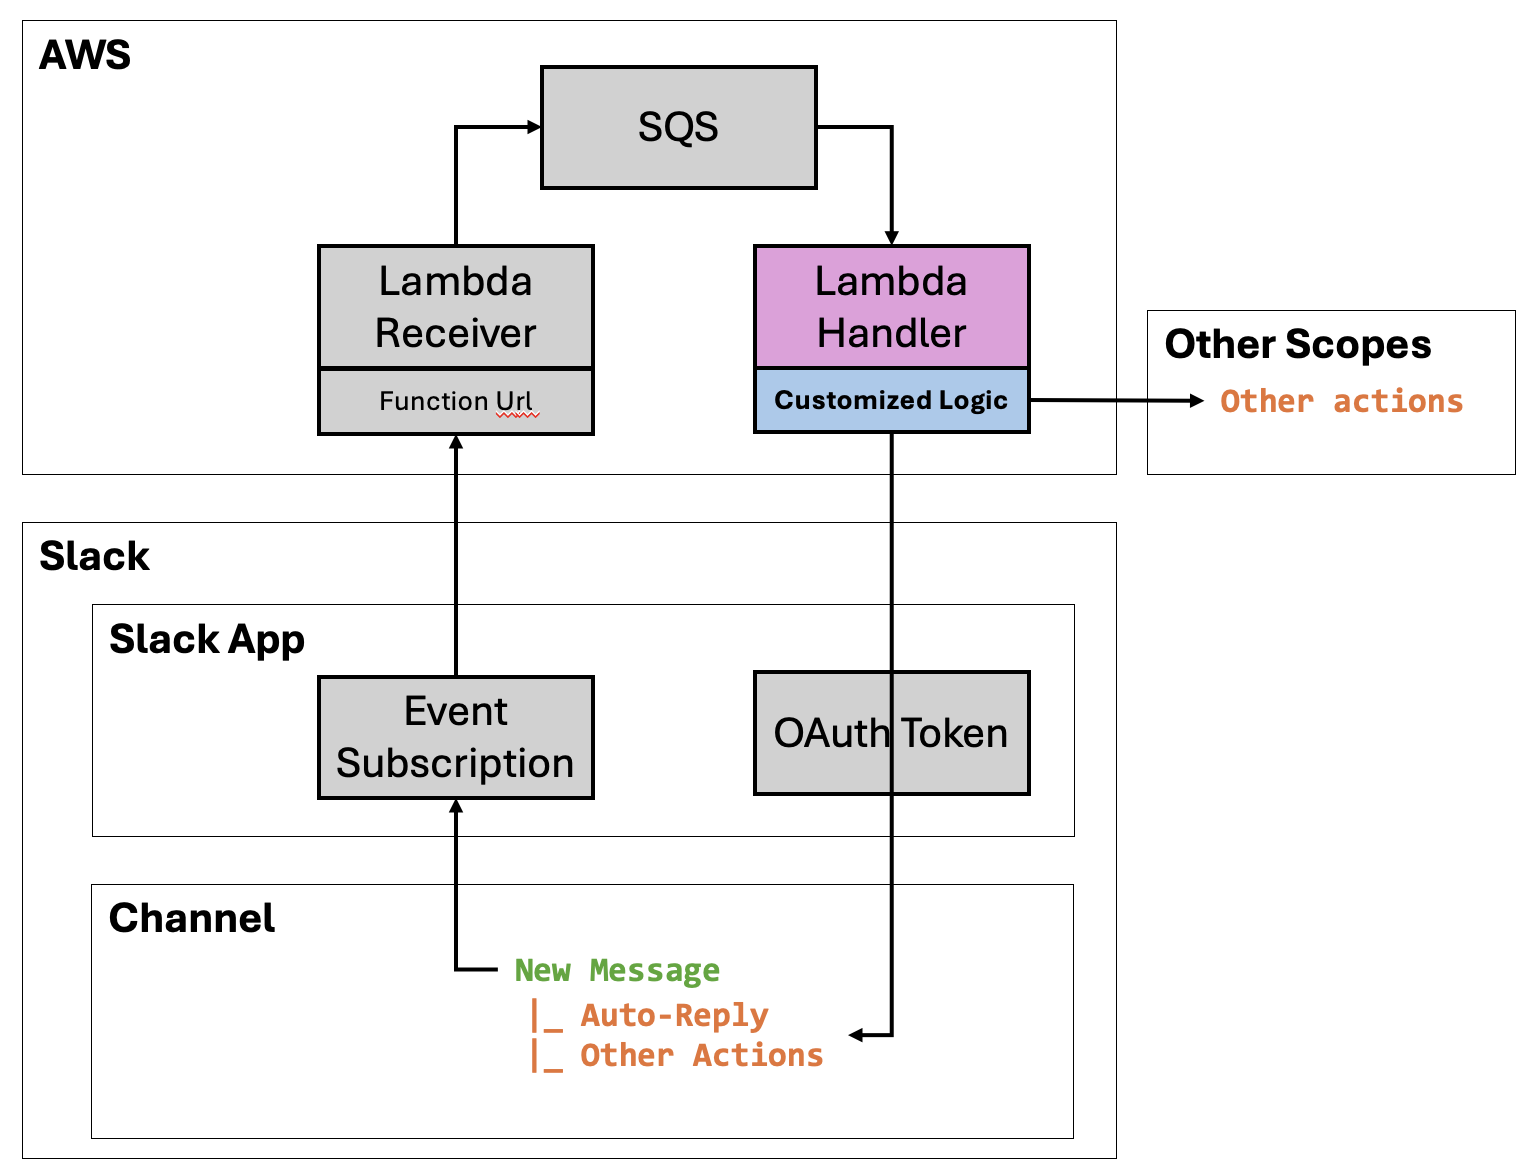
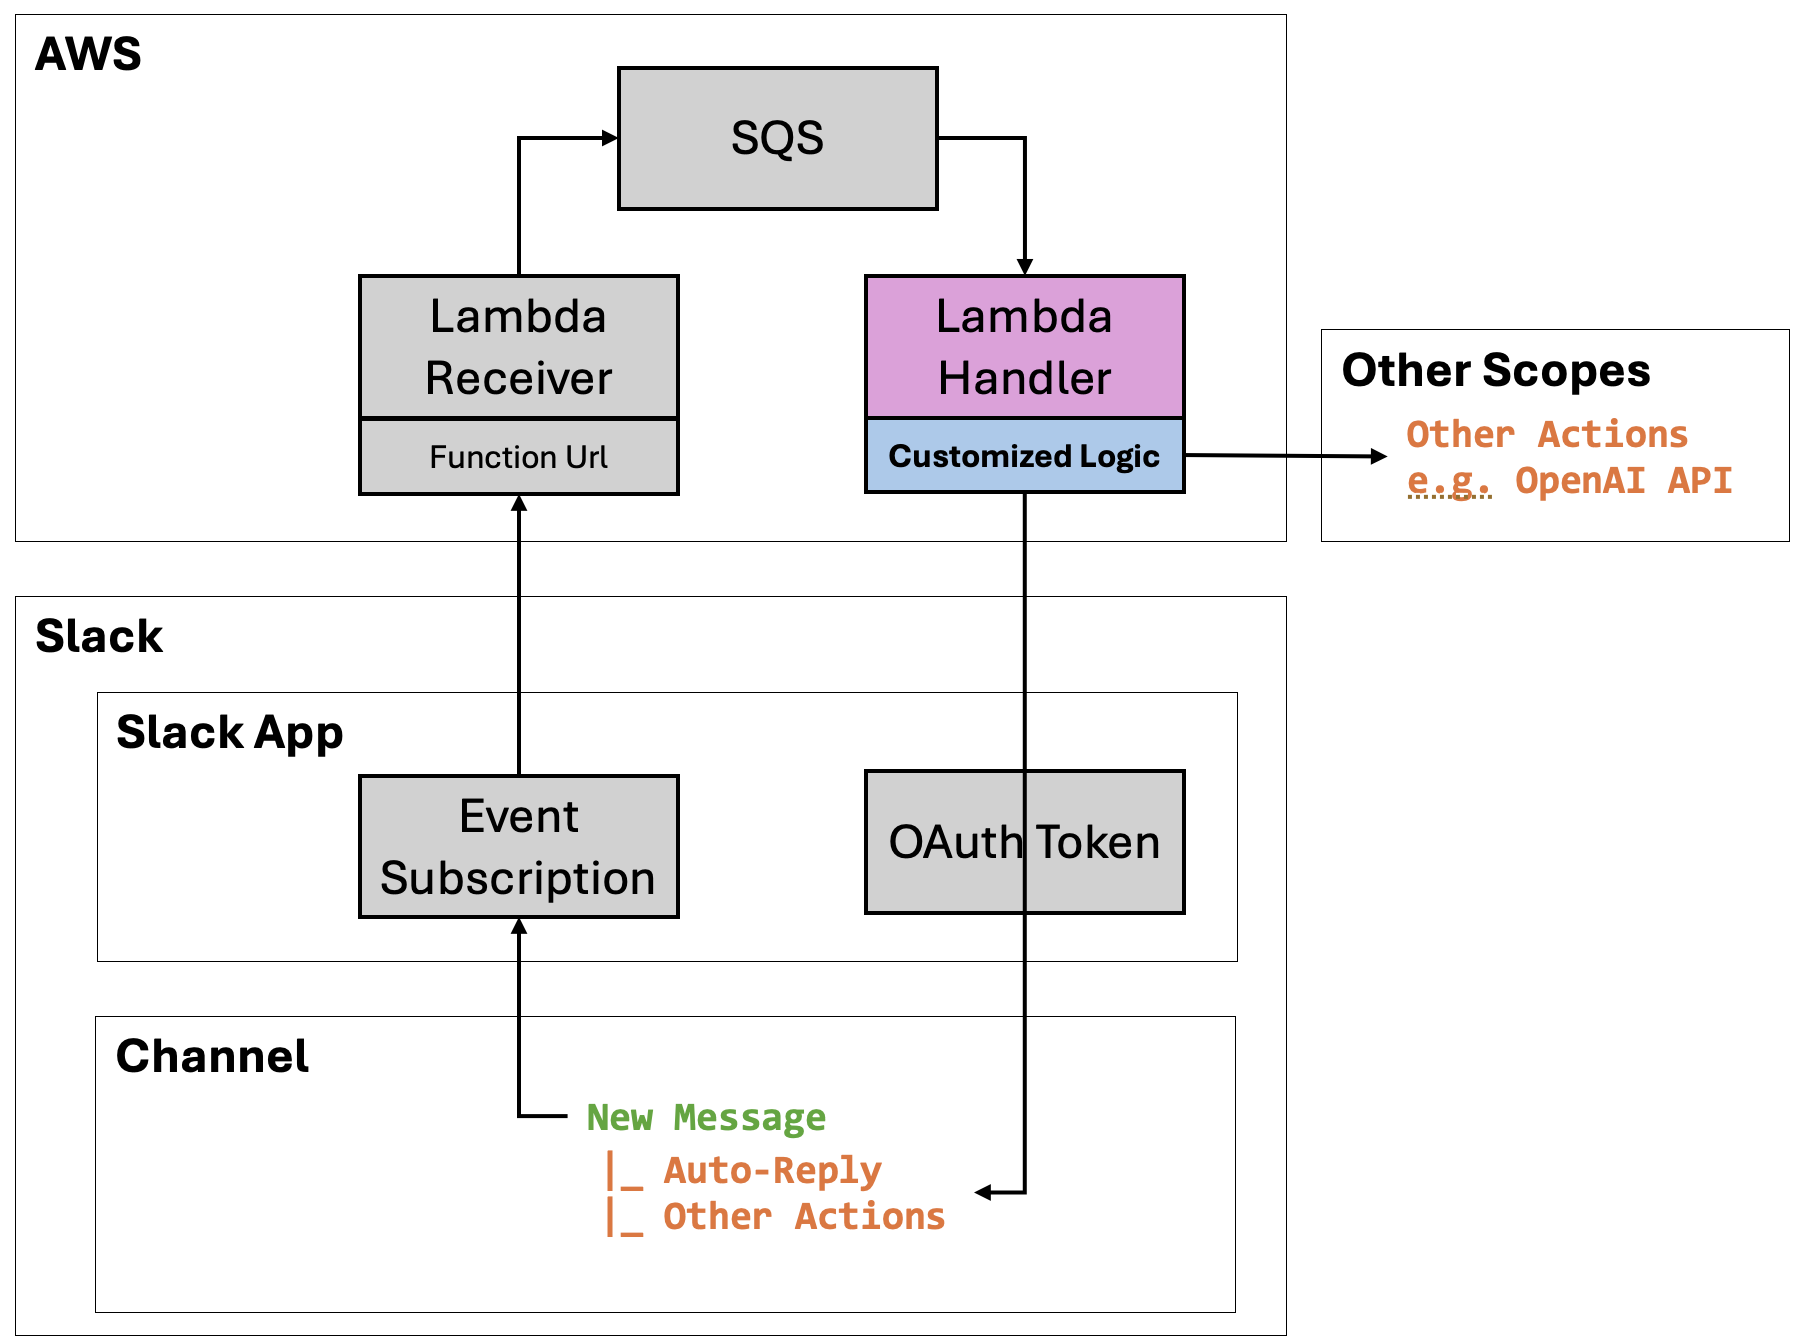
update readme (#6)
* update readme

* Create LICENSE.md

diff --git a/README.md b/README.md
@@ -1,31 +1,29 @@
 # Slack App Plus LLM
 
-Integration with Slack App to capture and handle Slack events. [_(Demo on YouTube)_](https://youtu.be/O8yVftgHnVE)
-Included Out-of-box integration for OpenAI & Azure OpenAI (with support of function call, assistant api, and chat completion api)
+- Build a Slack App to capture and handle Slack events. [Video Part 1](https://youtu.be/O8yVftgHnVE)
+- Integration with OpenAI & Azure OpenAI with support of function call, Assistant API, and Chat Completion API. [Video Part 2](https://youtu.be/lzL_F4F-tDE)
 
-<img src="docs/demo1.gif" alt="drawing" width="400"/>
+<img src="docs/architecture2.png" alt="drawing" width="600"/>
 
 ## How to Setup and Use
 
 ### 1. Create a Slack App
 
-- Go to your Slack workspace, follow Step1 in [Slack Quick Start](https://api.slack.com/quickstart#creating)
+- Go to your Slack workspace to create an App from scratch
+  - [Refer: Step1 in Slack Quick Start](https://api.slack.com/quickstart#creating)
 - Go to **Your Apps >> Setting >> Basic Information >> App Credential**, note down `App ID`, `Verification Token`
-- Go to **OAuth & Permissions >> Scopes >> Bot Token Scopes**, add/remove based on what lambda event handler logic performs, E.g.
-  - `app_mention:read`: to view messages that mention tag this slack app
-  - `channels:history`, `groups:history`, `im:history`: to view messages and content where this App is added in
-  - `chat:write`: to post message
-  - `users:read`, `users:read.email`: to search Slack users
-  - [Refer: Slack Scope List for Bot Token](https://api.slack.com/scopes?filter=granular_bot)
+- Go to **OAuth & Permissions**
+  - Under **Scopes >> Bot Token Scopes**, add/remove based on what lambda event handler logic performs, E.g.
+    - `app_mention:read`, `channels:history`, `groups:history`, `im:history`, `chat:write`
+    - [Refer: Slack Scope List for Bot Token](https://api.slack.com/scopes?filter=granular_bot)
+  - Click **Install to Workspace** and note down `Bot User OAuth Token`
 - Go to **App Home >> Show Tabs >> messages tab**, toggle on and tick Allow users to send Slash commands and messages from the messages tab.
-- Go to **OAuth & Permissions**, click **Install to Workspace**
-- Note down `Bot User OAuth Token` under OAuth Tokens for Your Workspace
 
 ### 2. Setup infra on AWS using TF
 
-- Configure TF vars for `slack_app`, e.g. `{"app_a_id" : "app_a_verification_token"}`
+- Configure various TF vars as needed
+  - Refer to [your.auto.tfvars.sample](./your.auto.tfvars.sample)
   - [Refer: How to set TF vars using environment vars](https://developer.hashicorp.com/terraform/cli/config/environment-variables#tf_var_name)
-- Configure other TF vars as needed
 - Run `terraform init`, `plan` and `apply`
 - Note down TF output `msg_receiver_lambda_function_url`
 
@@ -33,11 +31,8 @@ Included Out-of-box integration for OpenAI & Azure OpenAI (with support of funct
 
 - Go to the created Slack App >> **Event Subscriptions >> Enable Events**, toggle on & input `msg_receiver_lambda_function_url` into Request URL
 - Go to **Subscribe to Bot Event >> Add Bot User Event**, add event types you would like to receive and handle. E.g.
-  - `app_mention`: to receive messages that mention the app
-  - `message.group`: to receive private channels messages
-  - `message.channel`: to receive public channels messages
-  - `message.im`: to receive direct message
-  - [Refer: Slack event list](https://api.slack.com/events?filter=Events)
+  - `app_mention`, `message.group`, `message.channel`, `message.im`
+  - [Refer: Slack Event List](https://api.slack.com/events?filter=Events)
 - Go to **OAuth & Permissions**, click **Reinstall to Workspace**
 
 ### 4. Interact with Slack App
@@ -48,11 +43,14 @@ Included Out-of-box integration for OpenAI & Azure OpenAI (with support of funct
 
 ## Customize Handling of Slack Events
 
-- Under `lambda_msg_handler/msg_handlers/`
-  - Add additional logic e.g. `xxx_handler.py`
-  - Update `lambda_function.py`. Refer to `sample_handler()` as an example
-  - Slack event format documentation is [here](https://api.slack.com/events/)
-- Redeploy via TF to take effect
+- Refer to [sample_handler()](./lambda_msg_handler/msg_handlers/sample_handler.py) as an example
+  - Create additional handler logic e.g. `xxx_handler.py`
+  - Update `lambda_function.py`
+
+## Customize LLM Function Call
+
+- You may implement more function call in `openai_handler.py` or `az_openai_handler.py`
+- Refer to [llm_tools.py](./lambda_msg_handler/msg_handlers/llm_tools.py) as an example
 
 ## Key Components
 
@@ -99,6 +97,5 @@ Included Out-of-box integration for OpenAI & Azure OpenAI (with support of funct
 ## Further Enhancements
 
 - Replace deprecating Slack verification token with signning secret
-- Further protection for lambda function url
-- Explore alternative setup to expose lambda
-- Further simplify initial setup, esp. slack end.
+- Further protection for lambda function url and alternative setup to expose lambda
+- Add handler for LLM self hosted on Ollama

diff --git a/LICENSE.md b/LICENSE.md
@@ -1,0 +1,21 @@
+MIT License
+
+Copyright (c) 2024 xuyangbocn
+
+Permission is hereby granted, free of charge, to any person obtaining a copy
+of this software and associated documentation files (the "Software"), to deal
+in the Software without restriction, including without limitation the rights
+to use, copy, modify, merge, publish, distribute, sublicense, and/or sell
+copies of the Software, and to permit persons to whom the Software is
+furnished to do so, subject to the following conditions:
+
+The above copyright notice and this permission notice shall be included in all
+copies or substantial portions of the Software.
+
+THE SOFTWARE IS PROVIDED "AS IS", WITHOUT WARRANTY OF ANY KIND, EXPRESS OR
+IMPLIED, INCLUDING BUT NOT LIMITED TO THE WARRANTIES OF MERCHANTABILITY,
+FITNESS FOR A PARTICULAR PURPOSE AND NONINFRINGEMENT. IN NO EVENT SHALL THE
+AUTHORS OR COPYRIGHT HOLDERS BE LIABLE FOR ANY CLAIM, DAMAGES OR OTHER
+LIABILITY, WHETHER IN AN ACTION OF CONTRACT, TORT OR OTHERWISE, ARISING FROM,
+OUT OF OR IN CONNECTION WITH THE SOFTWARE OR THE USE OR OTHER DEALINGS IN THE
+SOFTWARE.
